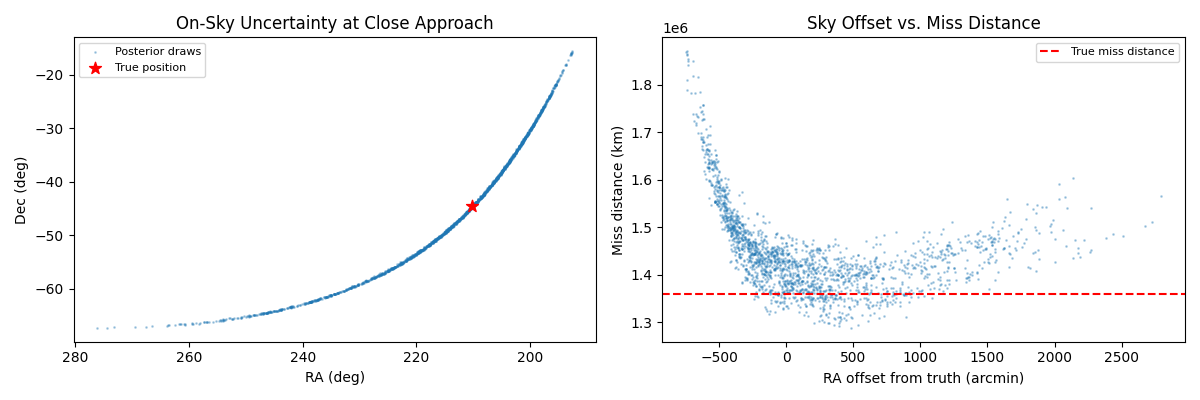
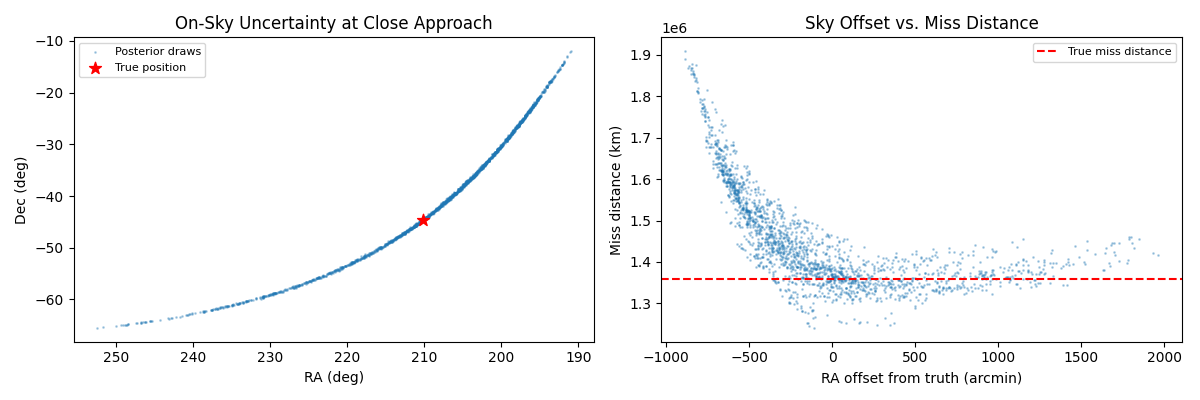
update mcmc tutorial

diff --git a/docs/tutorials/mcmc_near_miss.rst b/docs/tutorials/mcmc_near_miss.rst
@@ -6,13 +6,13 @@ Overview
 
 When an asteroid is first discovered, we typically have only a handful of
 observations spanning a few nights.  Standard orbit fitting
-(:func:`~kete.fitting.fit_orbit`) produces a best-fit orbit and an uncertainty
+(:func:`~kete.orbit_fitting.fit_orbit`) produces a best-fit orbit and an uncertainty
 estimate, but it assumes the uncertainty is Gaussian.  For short arcs this
 assumption breaks down badly: the family of orbits consistent with the data
 can be multi-modal, banana-shaped, or have long tails toward parabolic and
 hyperbolic solutions.
 
-:func:`~kete.fitting.fit_orbit_mcmc` makes no Gaussian assumption.  By
+:func:`~kete.orbit_fitting.fit_orbit_mcmc` makes no Gaussian assumption.  By
 exploring the full space of possible orbits, it produces a set of orbit samples
 that faithfully represent the true uncertainty -- however non-Gaussian it may
 be.  This is essential for impact probability assessment, where the tails
@@ -23,7 +23,7 @@ This tutorial walks through the complete workflow on a synthetic example:
 1. Build a realistic Apollo-type NEO orbit with a close Earth approach.
 2. Generate six astrometric observations over three nights from Palomar.
 3. Recover candidate orbits with IOD and refine with differential correction.
-4. Estimate the orbit uncertainty with :func:`~kete.fitting.fit_orbit_mcmc`.
+4. Estimate the orbit uncertainty with :func:`~kete.orbit_fitting.fit_orbit_mcmc`.
 5. Propagate the sampled orbits to the close-approach epoch to assess the
    miss-distance distribution.
 
@@ -144,7 +144,7 @@ to account for the convergence of right ascension lines toward the poles.
 
         # arcsec
         sigma = 0.3
-        obs = kete.fitting.Observation.optical(
+        obs = kete.orbit_fitting.Observation.optical(
             observer=observer,
             ra=ra + np.random.normal(0, sigma / 3600)
             / max(np.cos(np.radians(dec)), 0.1),
@@ -171,9 +171,9 @@ function scans a range of topocentric distances for each observation pair
 and uses Lambert's problem to connect them, returning one or more candidate
 orbits consistent with the data.
 
-Each IOD candidate is then refined with :func:`~kete.fitting.fit_orbit`
+Each IOD candidate is then refined with :func:`~kete.orbit_fitting.fit_orbit`
 (differential correction).  The converged states are passed to
-:func:`~kete.fitting.fit_orbit_mcmc` along with the observations.
+:func:`~kete.orbit_fitting.fit_orbit_mcmc` along with the observations.
 
 If IOD returns multiple candidates, we fit each one and pass all converged
 states to MCMC.  The sampler runs separate chains from each seed and pools
@@ -181,7 +181,7 @@ the results, which naturally captures multi-modality.
 
 .. code-block:: python
 
-    candidates = kete.fitting.initial_orbit_determination(observations)
+    candidates = kete.orbit_fitting.initial_orbit_determination(observations)
     print(f"IOD returned {len(candidates)} candidate(s)")
     for i, (score, c) in enumerate(candidates):
         e = c.elements
@@ -190,7 +190,7 @@ the results, which naturally captures multi-modality.
     # Refine each IOD candidate with differential correction.
     fits = []
     for _score, c in candidates:
-        fit = kete.fitting.fit_orbit(c, observations)
+        fit = kete.orbit_fitting.fit_orbit(c, observations)
         if fit.converged:
             fits.append(fit)
     print(f"{len(fits)} converged fit(s)")
@@ -209,7 +209,7 @@ the results, which naturally captures multi-modality.
 4. Orbit Uncertainty Estimation
 --------------------------------
 
-:func:`~kete.fitting.fit_orbit_mcmc` uses an adaptive MCMC algorithm to
+:func:`~kete.orbit_fitting.fit_orbit_mcmc` uses an adaptive MCMC algorithm to
 explore the space of orbits consistent with the observations.  Each step
 requires a full numerical propagation, which is the dominant cost.
 
@@ -229,7 +229,7 @@ robust when the stated uncertainties are imperfect.
 
 .. code-block:: python
 
-    samples = kete.fitting.fit_orbit_mcmc(
+    samples = kete.orbit_fitting.fit_orbit_mcmc(
         seeds=[fit.state for fit in fits],
         observations=observations,
         num_draws=2000,
@@ -483,24 +483,24 @@ NEO problems.
 When to Use MCMC vs. Standard Orbit Fitting
 ----------------------------------------------
 
-MCMC (:func:`~kete.fitting.fit_orbit_mcmc`) is powerful but expensive.
+MCMC (:func:`~kete.orbit_fitting.fit_orbit_mcmc`) is powerful but expensive.
 Here are guidelines for choosing the right tool:
 
 - **Long, well-sampled arcs** (months to years of observations): use
-  :func:`~kete.fitting.fit_orbit` alone.  The Gaussian
+  :func:`~kete.orbit_fitting.fit_orbit` alone.  The Gaussian
   approximation is excellent and the uncertainty from least squares
   is reliable.
 
 - **Short arcs** (a few nights) where the uncertainty is non-Gaussian: use
-  :func:`~kete.fitting.fit_orbit_mcmc`.  The cost is justified because the
+  :func:`~kete.orbit_fitting.fit_orbit_mcmc`.  The cost is justified because the
   shape of the uncertainty matters for risk assessment.
 
-- **Intermediate cases**: run :func:`~kete.fitting.fit_orbit` first.  If the
+- **Intermediate cases**: run :func:`~kete.orbit_fitting.fit_orbit` first.  If the
   uncertainty is suspiciously large or the orbit is poorly constrained,
   follow up with MCMC.
 
 The MCMC sampler accepts raw :class:`~kete.State` objects (e.g. from
-:func:`~kete.fitting.initial_orbit_determination` or
-:func:`~kete.fitting.fit_orbit`), so it can be used directly with IOD 
+:func:`~kete.orbit_fitting.initial_orbit_determination` or
+:func:`~kete.orbit_fitting.fit_orbit`), so it can be used directly with IOD 
 candidates or converged states.  A linearization at each seed builds the
 initial mass matrix internally.